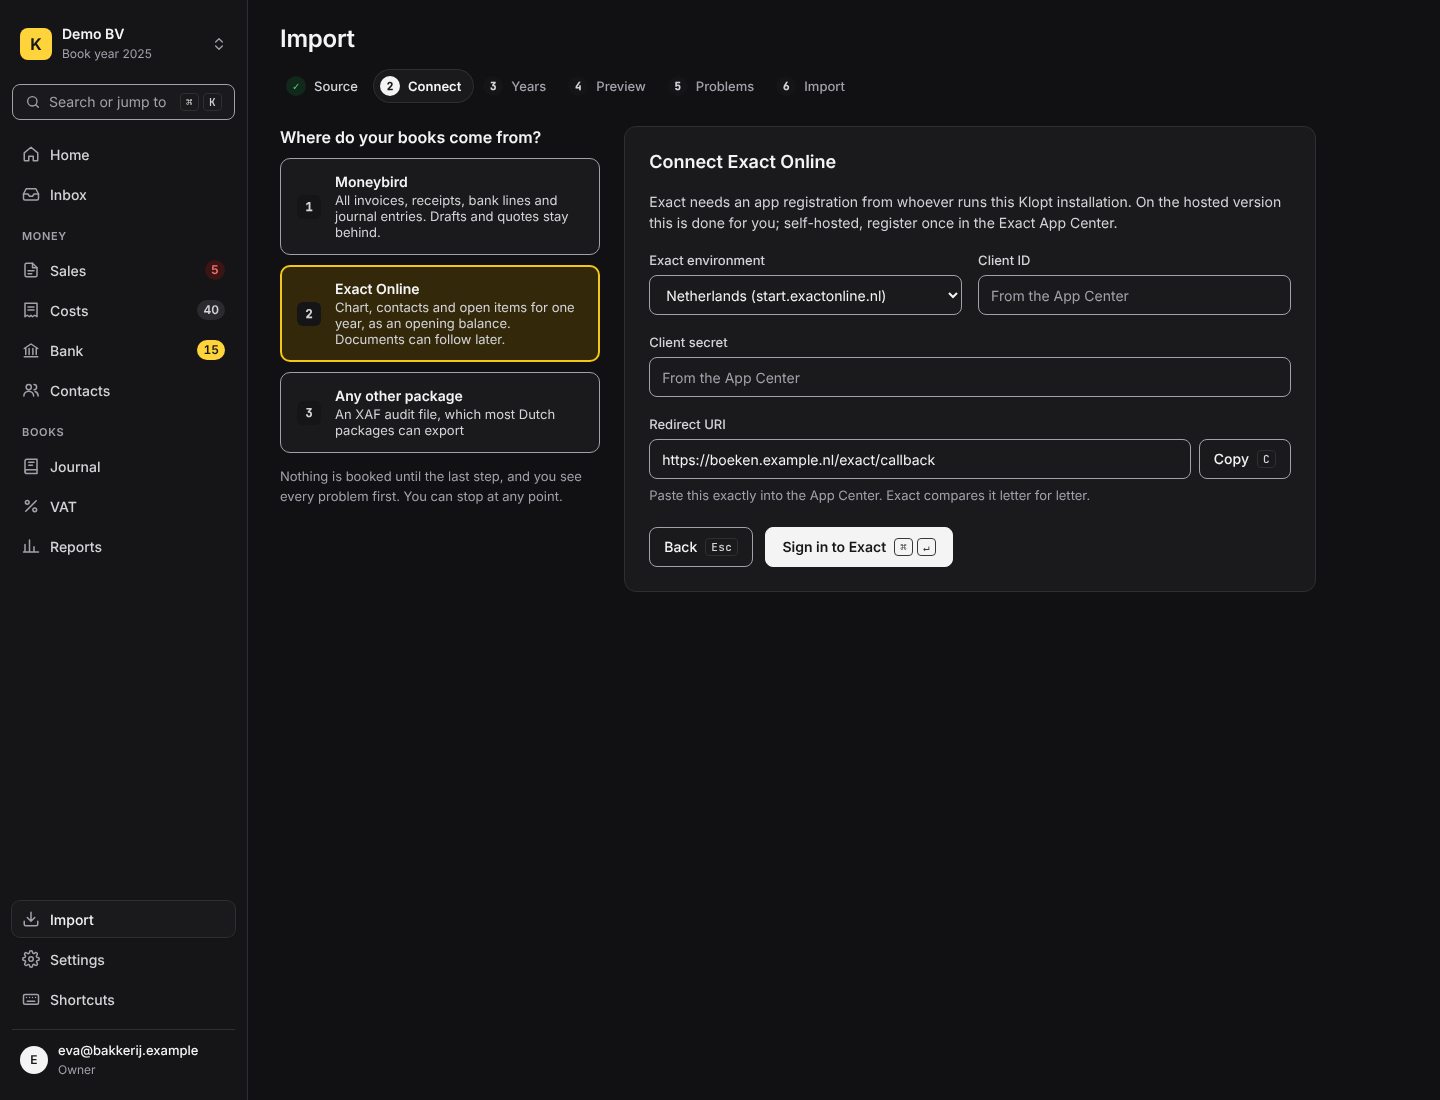
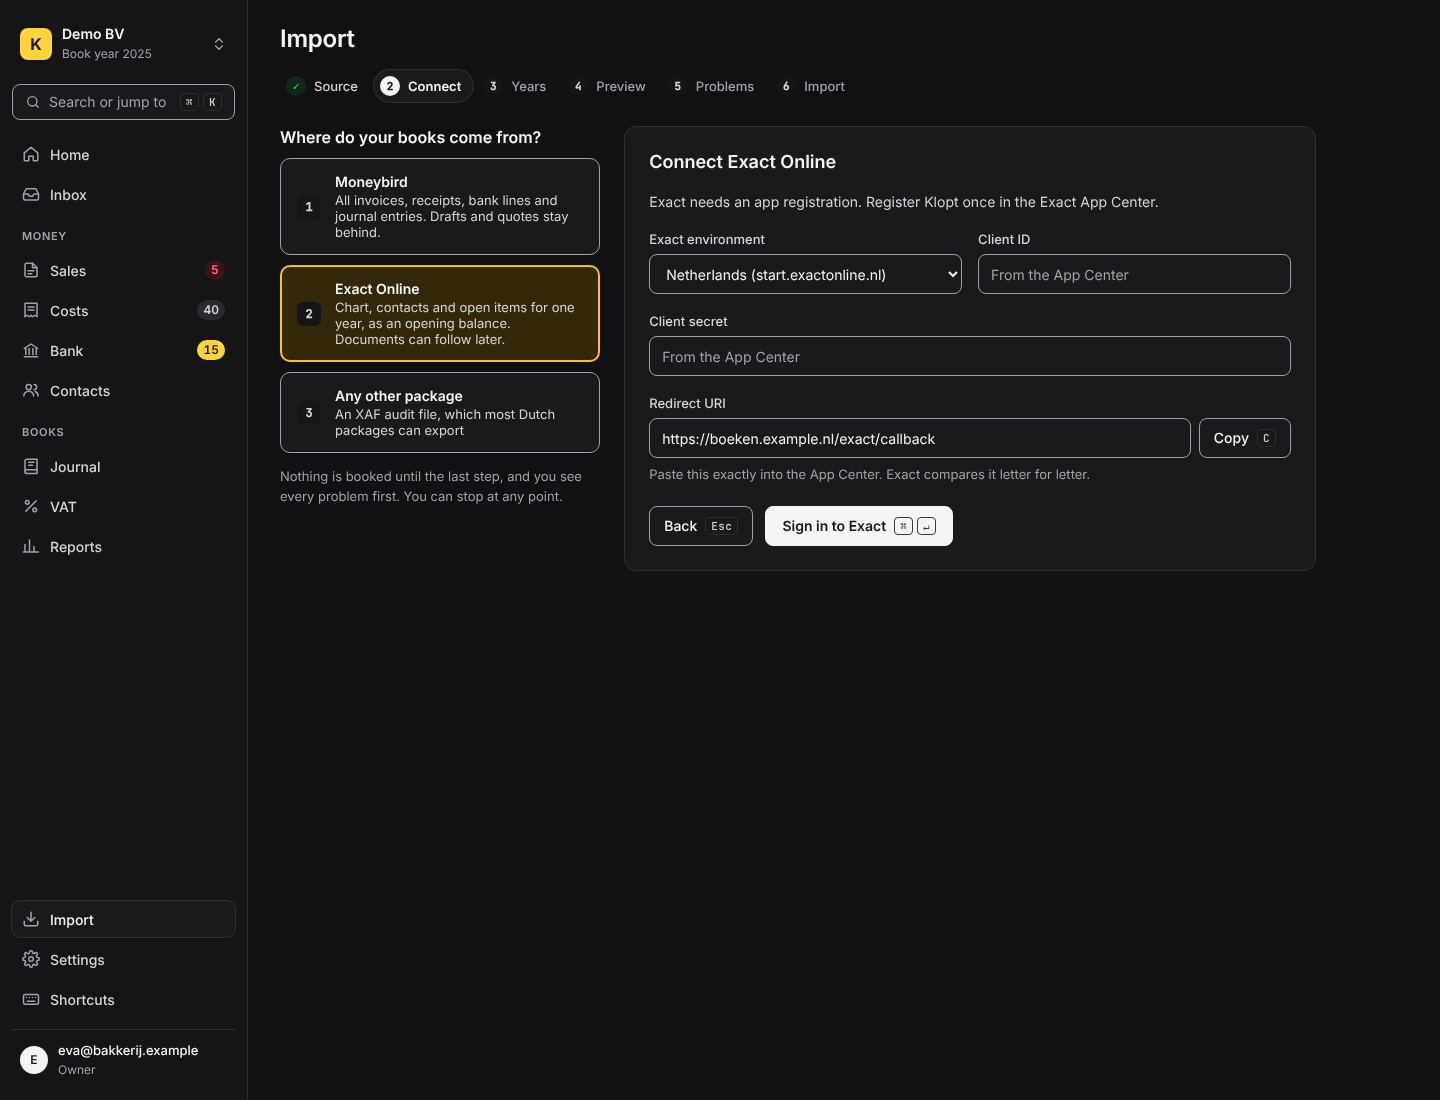
Design reference: drop hosting sentence from Import Exact intro (#152)
On ImportSourceDark and PhoneImportSource the Exact intro now reads
"Exact needs an app registration. Register Klopt once in the Exact App
Center." Re-shot the three ImportSource PNGs, updated the phone board
heights in canvas.json and added the copy to DERIVED.md (EN and NL).

Changed region(s): [[0.4375, 0.1545, 0.8125, 0.5255], [0.8438, 0.3709, 0.875, 0.4327]]

diff --git a/design/redesign-2026-10/screens/PhoneImportSource.dc.html b/design/redesign-2026-10/screens/PhoneImportSource.dc.html
@@ -79,7 +79,7 @@ a{color:var(--ink)}a:hover{color:var(--ink)}
       </sc-if>
       <sc-if value="{{isEx}}" hint-placeholder-val="{{true}}">
         <h2 class="k-card-title" style="font-size: 17px;">Connect Exact Online</h2>
-        <p style="margin: 0; color: var(--ink-2); line-height: 1.5;">Exact needs an app registration from whoever runs this Klopt installation. Self-hosted, register once in the Exact App Center.</p>
+        <p style="margin: 0; color: var(--ink-2); line-height: 1.5;">Exact needs an app registration. Register Klopt once in the Exact App Center.</p>
         <div class="k-field"><label class="k-label" for="env">Exact environment</label><select id="env" class="k-input"><option>Netherlands (start.exactonline.nl)</option><option>Belgium</option></select></div>
         <div class="k-field"><label class="k-label" for="cid">Client ID</label><input id="cid" class="k-input k-num" placeholder="From the App Center"></div>
         <div class="k-field"><label class="k-label" for="sec">Client secret</label><input id="sec" class="k-input" type="password" placeholder="From the App Center"></div>

diff --git a/design/redesign-2026-10/screens/ImportSourceDark.dc.html b/design/redesign-2026-10/screens/ImportSourceDark.dc.html
@@ -78,7 +78,7 @@ a{color:var(--ink)}a:hover{color:var(--ink)}
         </sc-if>
         <sc-if value="{{isEx}}" hint-placeholder-val="{{false}}">
           <h2 class="k-card-title" style="font-size: 18px;">Connect Exact Online</h2>
-          <p style="margin: 0; color: var(--ink-2); line-height: 1.5;">Exact needs an app registration from whoever runs this Klopt installation. On the hosted version this is done for you; self-hosted, register once in the Exact App Center.</p>
+          <p style="margin: 0; color: var(--ink-2); line-height: 1.5;">Exact needs an app registration. Register Klopt once in the Exact App Center.</p>
           <div style="display: grid; grid-template-columns: repeat(2, minmax(0, 1fr)); gap: 16px;">
             <div class="k-field"><label class="k-label" for="env">Exact environment</label><select id="env" class="k-input"><option>Netherlands (start.exactonline.nl)</option><option>Belgium</option></select></div>
             <div class="k-field"><label class="k-label" for="cid">Client ID</label><input id="cid" class="k-input k-num" placeholder="From the App Center"></div>

diff --git a/design/redesign-2026-10/DERIVED.md b/design/redesign-2026-10/DERIVED.md
@@ -13,7 +13,7 @@ Boards Hidde did not draw, derived by Design from his v2 system on his request. 
 | `PhoneImportFindings.dc.html`, `theme` prop | Problems (step 5) at 390, the same five example findings | `ImportFindings-light-390` |
 | `PhoneImportFindingsDark.dc.html` | `PhoneImportFindings` with `theme="dark"` | `ImportFindings-dark-390` |
 
-The two dark desktop boards are copies, not thin wrappers, because Hidde's light boards load Google Fonts and `ImportSource` shows a real installation URL as the Exact redirect URI. The copies use `https://boeken.example.nl/exact/callback`. On `ImportFindingsDark` and `PhoneImportFindings` the bank finding reads "12 bank lines each pay two invoices" (Hidde: "are linked to"), and the `1`–`3` key hint shows the three keys. Hidde's light boards are unchanged.
+The two dark desktop boards are copies, not thin wrappers, because Hidde's light boards load Google Fonts and `ImportSource` shows a real installation URL as the Exact redirect URI. The copies use `https://boeken.example.nl/exact/callback`. The Exact intro on the new boards is "Exact needs an app registration. Register Klopt once in the Exact App Center.", without Hidde's hosting sentence. On `ImportFindingsDark` and `PhoneImportFindings` the bank finding reads "12 bank lines each pay two invoices" (Hidde: "are linked to"), and the `1`–`3` key hint shows the three keys. Hidde's light boards are unchanged.
 
 - Phone follows batch 2: `.k-phone` at 390, a ghost back link top left (`‹ More`, `‹ Preview`), a "step N of 6" line instead of the stepper, one column, the primary action in a sticky bar above the tab bar, More active.
 - On phone the source options and the connect card stack; the Exact fields stack and Copy sits under the redirect URI. The problems board shows the three counts in a row, then the selected finding with its fixes, then all findings. Tapping a finding opens it above; choosing a fix moves to the next open one.
@@ -30,6 +30,7 @@ The two dark desktop boards are copies, not thin wrappers, because Hidde's light
 | Finding 1 of 5 | Bevinding 1 van 5 |
 | All findings | Alle bevindingen |
 | 12 bank lines each pay two invoices | 12 bankregels betalen elk twee facturen |
+| Exact needs an app registration. Register Klopt once in the Exact App Center. | Exact vraagt om een app-registratie. Registreer Klopt één keer in het Exact App Center. |
 | Nothing is booked until the last step. You can stop at any point. | Er wordt pas bij de laatste stap geboekt. Je kunt altijd stoppen. |
 
 ## Contacts, VAT and ICP: dark and phone (#155)
